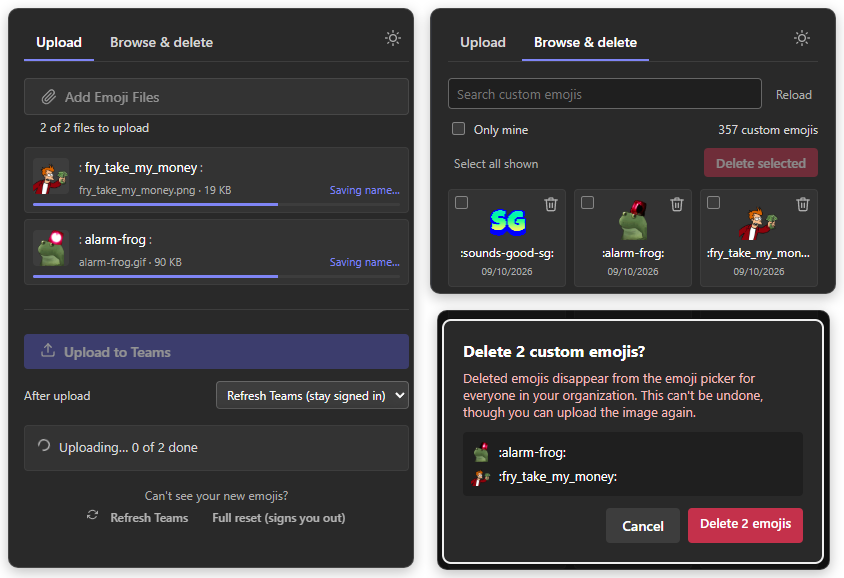
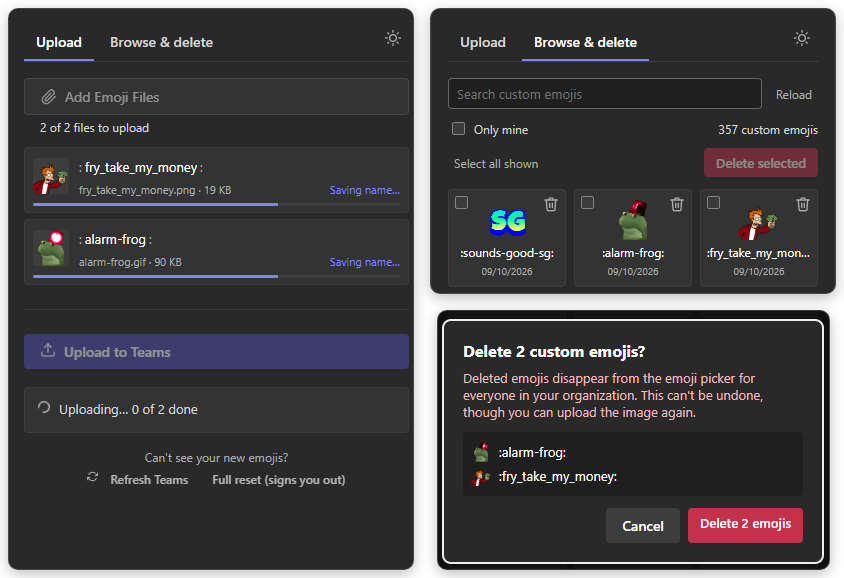
feat: drop the automatic Teams refresh after uploads

Changed region(s): [[0.0308, 0.7474, 0.4313, 0.9031], [0.0308, 0.654, 0.4929, 0.7163], [0.0, 0.9654, 0.4929, 0.9965]]

diff --git a/src/popup.ts b/src/popup.ts
@@ -23,7 +23,6 @@ import {
 } from "./types";
 
 type StatusType = "ready" | "success" | "error" | "processing";
-type AfterUpload = "refresh" | "reset" | "none";
 
 // Teams web is served from both domains depending on the tenant
 const TEAMS_ORIGINS: [string, ...string[]] = [
@@ -135,18 +134,6 @@ document.addEventListener("DOMContentLoaded", async () => {
     updateControls();
   } catch (err) {
     console.error("Error restoring state:", err);
-  }
-
-  try {
-    const { afterUpload } = await chrome.storage.sync.get<{
-      afterUpload?: AfterUpload;
-    }>("afterUpload");
-    if (afterUpload) {
-      (document.getElementById("afterUpload") as HTMLSelectElement).value =
-        afterUpload;
-    }
-  } catch (err) {
-    console.error("Error loading settings:", err);
   }
 
   await captureTokens();
@@ -561,20 +548,12 @@ async function handleFileProcessing() {
     if (error) {
       updateStatus(error, "error");
     } else {
-      updateStatus(status || "", success ? "success" : "processing");
-
-      const afterUpload = (
-        document.getElementById("afterUpload") as HTMLSelectElement
-      ).value as AfterUpload;
-      if (afterUpload !== "none") {
-        await clearTeamsData(afterUpload);
-        updateStatus(
-          afterUpload === "reset"
-            ? `${status}. Teams was reset, so sign in again.`
-            : `${status}. Teams is reloading.`,
-          "success",
-        );
-      }
+      updateStatus(
+        success
+          ? `${status}. If they don't show up in Teams, use Refresh Teams below.`
+          : status || "",
+        success ? "success" : "processing",
+      );
     }
   } catch (error) {
     let errorMessage = "";
@@ -766,10 +745,6 @@ document
 document
   .getElementById("resetButton")
   ?.addEventListener("click", () => refreshTeams("reset"));
-document.getElementById("afterUpload")?.addEventListener("change", (event) => {
-  const afterUpload = (event.target as HTMLSelectElement).value;
-  chrome.storage.sync.set({ afterUpload });
-});
 
 chrome.runtime.onMessage.addListener(
   (message: {

diff --git a/popup.html b/popup.html
@@ -472,24 +472,6 @@
         flex-shrink: 0;
       }
 
-      .setting {
-        display: flex;
-        align-items: center;
-        justify-content: space-between;
-        gap: 8px;
-        font-size: 12px;
-        color: var(--fg2);
-      }
-
-      .setting select {
-        padding: 4px 6px;
-        background: var(--bg-control);
-        border: 1px solid var(--stroke);
-        border-radius: 4px;
-        color: var(--fg1);
-        font: inherit;
-      }
-
       .refresh-help {
         margin-top: 16px;
         text-align: center;
@@ -953,15 +935,6 @@
           </svg>
           Upload to Teams
         </button>
-
-        <label class="setting" for="afterUpload">
-          After upload
-          <select id="afterUpload">
-            <option value="refresh">Refresh Teams (stay signed in)</option>
-            <option value="reset">Full reset (signs you out)</option>
-            <option value="none">Do nothing</option>
-          </select>
-        </label>
       </div>
     </section>
 

diff --git a/docs/development.md b/docs/development.md
@@ -14,14 +14,14 @@ After a build, click the reload icon on the extension's card in `chrome://extens
 
 ## Source layout
 
-| File                                     | Purpose                                                     |
-| ---------------------------------------- | ----------------------------------------------------------- |
-| `popup.html`, `src/popup.ts`             | Side panel UI: upload list, settings, theme, view switching |
-| `src/emojiBrowser.ts`                    | Browse and delete view, including the confirmation dialog   |
-| `src/background.ts`                      | Service worker that runs uploads and reports progress       |
-| `src/msTeams.ts`                         | Client for the Teams APIs                                   |
-| `src/rateLimit.ts`                       | Handling Teams' 429 responses and pacing requests           |
-| `src/draft.ts`                           | Saving the file list so it survives closing the panel       |
-| `src/shortcuts.ts`, `src/customEmoji.ts` | Name defaults and validation, emoji list filtering          |
+| File                                     | Purpose                                                   |
+| ---------------------------------------- | --------------------------------------------------------- |
+| `popup.html`, `src/popup.ts`             | Side panel UI: upload list, theme, view switching         |
+| `src/emojiBrowser.ts`                    | Browse and delete view, including the confirmation dialog |
+| `src/background.ts`                      | Service worker that runs uploads and reports progress     |
+| `src/msTeams.ts`                         | Client for the Teams APIs                                 |
+| `src/rateLimit.ts`                       | Handling Teams' 429 responses and pacing requests         |
+| `src/draft.ts`                           | Saving the file list so it survives closing the panel     |
+| `src/shortcuts.ts`, `src/customEmoji.ts` | Name defaults and validation, emoji list filtering        |
 
 See [How it works](./how-it-works.md) for the Teams endpoints and the permissions the extension uses.

diff --git a/docs/how-it-works.md b/docs/how-it-works.md
@@ -10,10 +10,10 @@ The extension uses the same internal Teams web APIs that Teams itself calls. The
 
 ## Permissions
 
-| Permission                           | Used for                                                      |
-| ------------------------------------ | ------------------------------------------------------------- |
-| `activeTab`, `scripting`             | Reading the Teams sign-in tokens from the Teams tab           |
-| `storage`, `unlimitedStorage`        | Keeping the file list and settings while the panel is closed  |
-| `sidePanel`                          | Showing the extension next to Teams                           |
-| `browsingData`                       | Refreshing or resetting Teams' site data so new emojis appear |
-| Teams and `asyncgw` host permissions | Calling the Teams APIs listed above                           |
+| Permission                           | Used for                                                        |
+| ------------------------------------ | --------------------------------------------------------------- |
+| `activeTab`, `scripting`             | Reading the Teams sign-in tokens from the Teams tab             |
+| `storage`, `unlimitedStorage`        | Keeping the file list and upload progress when the panel closes |
+| `sidePanel`                          | Showing the extension next to Teams                             |
+| `browsingData`                       | Refreshing or resetting Teams' site data so new emojis appear   |
+| Teams and `asyncgw` host permissions | Calling the Teams APIs listed above                             |

diff --git a/docs/usage.md b/docs/usage.md
@@ -24,7 +24,7 @@ Teams allows each user 10 deletions per minute. Bigger deletes pause with a coun
 
 Teams caches its emoji list, so new or deleted emojis may not show up straight away.
 
-- **After upload** chooses what happens after a successful upload: refresh Teams' caches (you stay signed in), a full reset (signs you out), or nothing.
-- **Refresh Teams** and **Full reset** at the bottom of the panel do the same on demand.
+- **Refresh Teams** at the bottom of the panel clears Teams' caches and reloads it. You stay signed in.
+- **Full reset** clears all of Teams' site data, which signs you out. Use it if a refresh isn't enough.
 
 Teams can also take a while to sync changes on its side.

diff --git a/README.md b/README.md
@@ -10,7 +10,7 @@ A Chrome extension for managing your organisation's custom emojis in Microsoft T
 - **Browse and delete** your organisation's custom emojis, with search and an "only mine" filter.
 - **Safe deletes**: every delete asks for confirmation and lists what will go, and large deletes are paced to Teams' rate limit.
 - **Keeps your work**: the file list and running uploads survive closing the panel.
-- **Refresh Teams** after uploading so new emojis appear, without signing you out.
+- **Refresh Teams** with one click so new emojis appear, without signing you out.
 - **Light and dark themes** in Teams' default colours.
 
 ## Documentation
